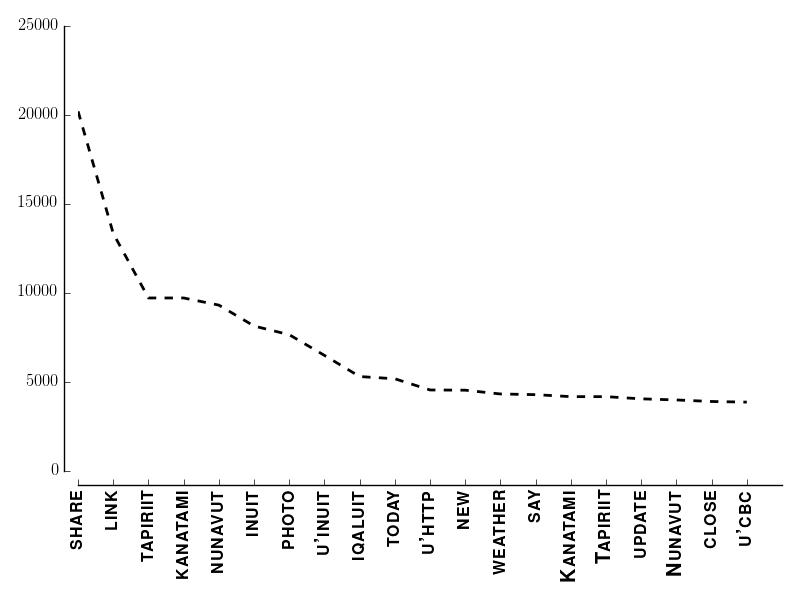
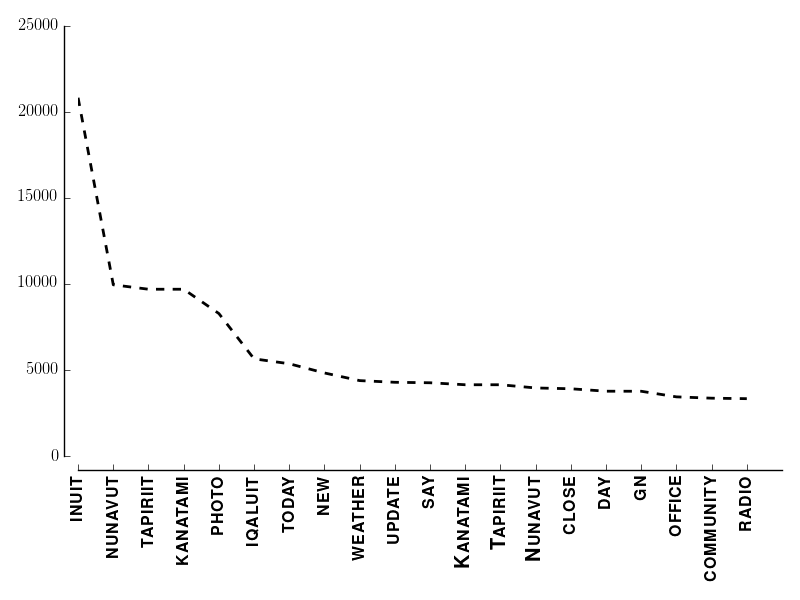
compare health topics graphs

diff --git a/src/analyze-health-topics.py b/src/analyze-health-topics.py
@@ -1,0 +1,50 @@
+import json, os
+
+from itertools import izip
+from awesome_print import ap 
+
+#-- Facebook
+
+health_topics = json.load(open(os.path.join('..','data','health-topics.json'),'rb'))
+words = json.load(open(os.path.join('..','data','word-frequencies.json')))
+
+data = {topic:None for topic in health_topics}
+
+for topic in data:
+	data[topic] = sum([freq for word,freq in words.iteritems() if word in health_topics[topic]])
+
+json.dump(data,open(os.path.join('..','data','health-topic-prevalence-fb'),'wb'))
+ap(data)
+
+#For blood pressure, really should analyze bigrams
+
+#-- Twitter
+DIRECTORY = os.path.join('..','data')
+READ = 'rb'
+
+paths = {'case':os.path.join(DIRECTORY,'case'),
+   		'control':os.path.join(DIRECTORY,'control')}
+
+data = {"case":{topic:None for topic in health_topics},"control":{topic:None for topic in health_topics}}
+
+for condition in ['case','control']:
+	unigrams = json.load(open(os.path.join(DIRECTORY,'1-gram-frequencies-%s.json'%(condition)),READ))
+	bigrams = json.load(open(os.path.join(DIRECTORY,'2-gram-frequencies-%s.json'%(condition)),READ))
+
+	for topic in health_topics:
+		topic_sum = 0
+
+		for unigram,freq_uni in unigrams.iteritems():
+			if unigram in health_topics[topic]:
+			 	topic_sum += freq_uni
+
+		for bigram, freq_bi in bigrams.iteritems():
+			if bigram in health_topics[topic]:
+				topic_sum += freq_bi
+
+
+		data[condition][topic] = topic_sum
+
+		del topic_sum
+
+ap(data)

diff --git a/src/visualize-fb-data.py b/src/visualize-fb-data.py
@@ -3,9 +3,40 @@ import json, os
 import matplotlib.pyplot as plt
 import Graphics as artist 
 
+from textblob import Word
 from awesome_print import ap
+from string import punctuation 
+from nltk.corpus import stopwords as stopz
 
 data = json.load(open(os.path.join('..','data','word-frequencies.json'),'rb'))
+stopwords = open(os.path.join('..','data','stopwords')).read().splitlines()
+stp = stopz.words('english')
+
+#Further clean up
+for word,frequency in data.items():
+	if "u'" in word or '\\n' in word:
+		new_word = word.replace("u'","").replace('\\n',"").lower().replace(punctuation,"")
+		if new_word.isalpha() and new_word not in stopwords and new_word not in stp:
+			new_word = Word(new_word).lemmatize()
+			if new_word in data: #Different forms of word in DB. Combine the associated frequencies. 
+				freqs = data[new_word]
+				data[new_word] = freqs + data[word]
+				del data[word]
+			else:
+				data[new_word] = data[word]
+				del data[word]
+		else:
+			del data[word]
+	if word.isupper():
+		if word.lower() in data:
+			freq = data[word.lower()]
+			data[word.lower()] = freq + data[word]
+			del data[word]
+	if word in stopwords or word in stp:
+		del data[word]
+
+ap(data)
+json.dump(data,open(os.path.join('..','data','word-frequencies.json'),'wb'))
 
 cutoff = 20
 

diff --git a/src/visualize_health_topics.py b/src/visualize_health_topics.py
@@ -1,0 +1,20 @@
+import json 
+
+import matplotlib.pyplot as plt
+import Graphics as artist
+import seaborn as sns 
+
+data = json.load(open('../data/health-topic-prevalence-fb','rb'))
+
+
+
+labels,values = zip(*data.items())
+fig = plt.figure()
+ax = fig.add_subplot(111)
+ax.bar(xrange(len(data)),values,color='k',align='center')
+artist.adjust_spines(ax)
+ax.set_xticks(xrange(len(data)))
+ax.set_xticklabels(map(artist.format,labels))
+ax.set_ylabel(artist.format('No. of mentions'))
+plt.tight_layout()
+plt.savefig('../imgs/health_topic.png')
